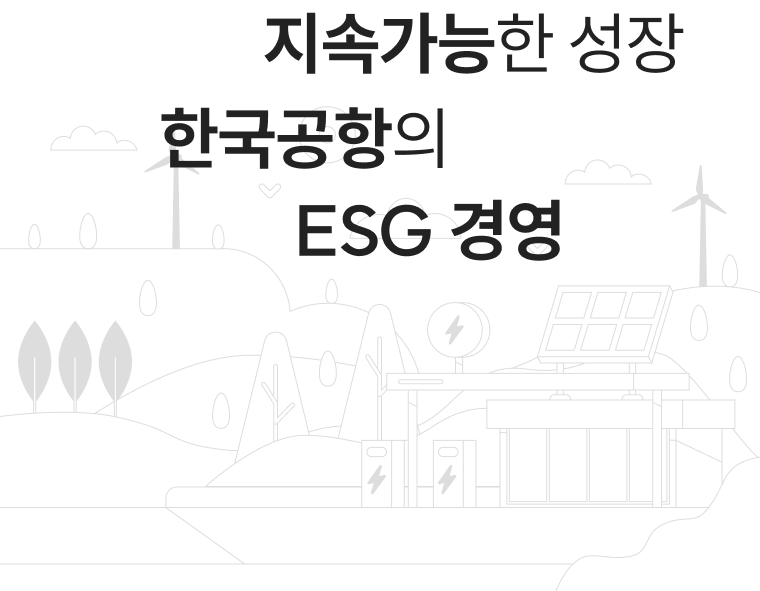
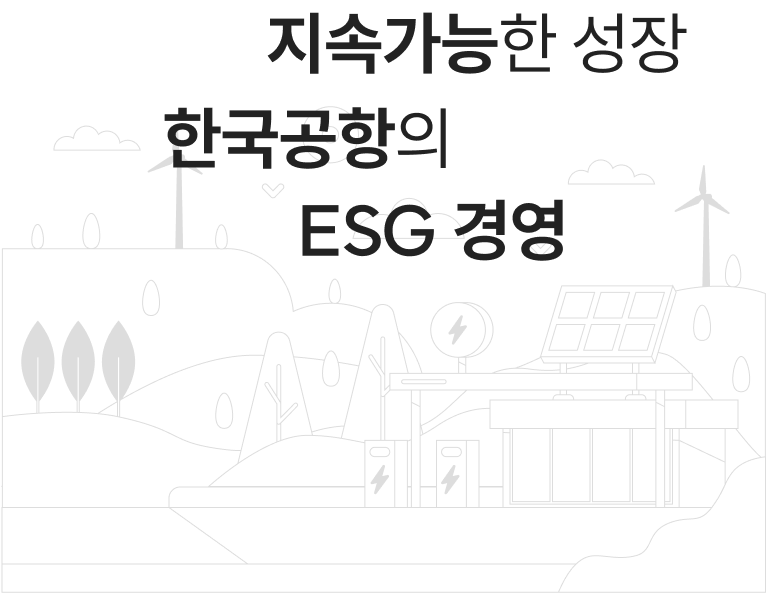
0314 / 14:41 / noah

diff --git a/typeB/assets/scss/main.scss b/typeB/assets/scss/main.scss
@@ -8,6 +8,7 @@
         background: url(../../assets/images/common/hero_bg_white.png) no-repeat center bottom/ 100%;
         background-attachment: fixed;
         background-size: cover;
+        background-color: $white;
         opacity: 1;
         transition: all 0.3s;
         &.fixed {
@@ -257,6 +258,7 @@ position: relative;
                 background-size: cover;
                 background-position: center;
                 background-repeat: no-repeat;
+                background-color: $white;
                 .img-wrap {
                     // width: 38.4375vw;
                     max-width: 73.8rem;
@@ -272,7 +274,8 @@ position: relative;
                 background: url(../../assets/images/common/cargo_bg.png);
                 background-size: cover;
                 background-position: center;
-                background-repeat: no-repeat;     
+                background-repeat: no-repeat;
+                background-color: $white;     
                 .img-wrap {
                     // width: 47.8645vw;
                     max-width: 91.9rem;
@@ -289,6 +292,7 @@ position: relative;
                 background-size: cover;
                 background-position: center;
                 background-repeat: no-repeat;
+                background-color: $white;
                 .img-wrap {
                     // width: 39.42vw;
                     max-width: 75.7rem;
@@ -305,6 +309,7 @@ position: relative;
                 background-size: cover;
                 background-position: center;
                 background-repeat: no-repeat;
+                background-color: $white;
                 .img-wrap {
                     // width: 43.8vw;
                     max-width: 84.1rem;
@@ -327,6 +332,8 @@ position: relative;
     height: auto;
     opacity: 1;
     transition: all 0.3s;
+    background-color: $white;
+    padding-bottom: 19rem;
     .esg-intro {
         width: 100vw;
         min-height: 100vh;

diff --git a/typeB/assets/css/main.css b/typeB/assets/css/main.css
@@ -7,7 +7,7 @@ body.fixed {
   width: 100vw;
   height: 100vh;
   z-index: 95;
-  background: rgba(0, 0, 0, 0.5);
+  background: rgb(0, 0, 0);
   overflow: hidden;
 }
 
@@ -107,6 +107,7 @@ body.fixed {
   background: url(../../assets/images/common/hero_bg_white.png) no-repeat center bottom/100%;
   background-attachment: fixed;
   background-size: cover;
+  background-color: #FFF;
   opacity: 1;
   -webkit-transition: all 0.3s;
   transition: all 0.3s;
@@ -305,6 +306,7 @@ section:not(#sectionPin) {
   background-size: cover;
   background-position: center;
   background-repeat: no-repeat;
+  background-color: #FFF;
 }
 .pin-wrap .slide-list.slide.slide01 .img-wrap {
   max-width: 73.8rem;
@@ -318,6 +320,7 @@ section:not(#sectionPin) {
   background-size: cover;
   background-position: center;
   background-repeat: no-repeat;
+  background-color: #FFF;
 }
 .pin-wrap .slide-list.slide.slide02 .img-wrap {
   max-width: 91.9rem;
@@ -331,6 +334,7 @@ section:not(#sectionPin) {
   background-size: cover;
   background-position: center;
   background-repeat: no-repeat;
+  background-color: #FFF;
 }
 .pin-wrap .slide-list.slide.slide03 .img-wrap {
   max-width: 75.7rem;
@@ -344,6 +348,7 @@ section:not(#sectionPin) {
   background-size: cover;
   background-position: center;
   background-repeat: no-repeat;
+  background-color: #FFF;
 }
 .pin-wrap .slide-list.slide.slide04 .img-wrap {
   max-width: 84.1rem;
@@ -362,6 +367,8 @@ section:not(#sectionPin) {
   opacity: 1;
   -webkit-transition: all 0.3s;
   transition: all 0.3s;
+  background-color: #FFF;
+  padding-bottom: 19rem;
 }
 .content-bottom .esg-intro {
   width: 100vw;

diff --git a/typeB/assets/css/common.css b/typeB/assets/css/common.css
@@ -7,7 +7,7 @@ body.fixed {
   width: 100vw;
   height: 100vh;
   z-index: 95;
-  background: rgba(0, 0, 0, 0.5);
+  background: rgb(0, 0, 0);
   overflow: hidden;
 }
 
@@ -626,7 +626,7 @@ body.fixed {
   width: 90%;
   padding: 6rem 0 3.4rem;
   max-height: 62.5rem;
-  margin: 19rem auto 0;
+  margin: 0 auto;
   background: #2B2C45 url(/typeB/assets/images/common/ft_bg.png) no-repeat left -76px bottom 30px/27.2rem;
   border-radius: 40px;
   -webkit-transition: all 0.5s;

diff --git a/typeB/assets/js/common.js b/typeB/assets/js/common.js
@@ -213,7 +213,7 @@ $(document).ready(function() {
             $("#header").addClass("on");
         } else {
             //remove the background property so it comes transparent again (defined in your css)
-           $("#header").removeClass("on");
+            $("#header").removeClass("on");
         }
     });
 

diff --git a/typeB/assets/scss/common.scss b/typeB/assets/scss/common.scss
@@ -428,7 +428,7 @@
     width: 90%;
     padding: 6rem 0 3.4rem;
     max-height: 62.5rem;
-    margin: 19rem auto 0;
+    margin: 0 auto;
     background: #2B2C45 url(/typeB/assets/images/common/ft_bg.png) no-repeat left -76px bottom 30px / 27.2rem;
     border-radius: 40px;
     transition: all .5s;

diff --git a/typeB/assets/scss/_common_component.scss b/typeB/assets/scss/_common_component.scss
@@ -8,7 +8,7 @@ body{
         // top: 0;
         // left: 0;
         z-index: 95;
-        background:rgba(0,0,0,0.5);
+        background:rgba(0,0,0,1);
         overflow: hidden;
     }
 }

diff --git a/typeA/assets/css/common.css b/typeA/assets/css/common.css
@@ -102,6 +102,7 @@
 }
 
 html {
+  color: red;
   font-size: 10px;
 }
 @media (max-width: 1150px) {
